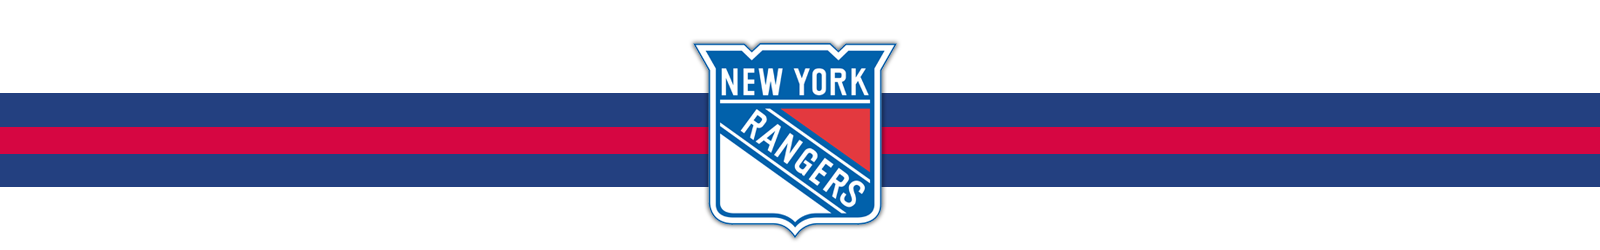
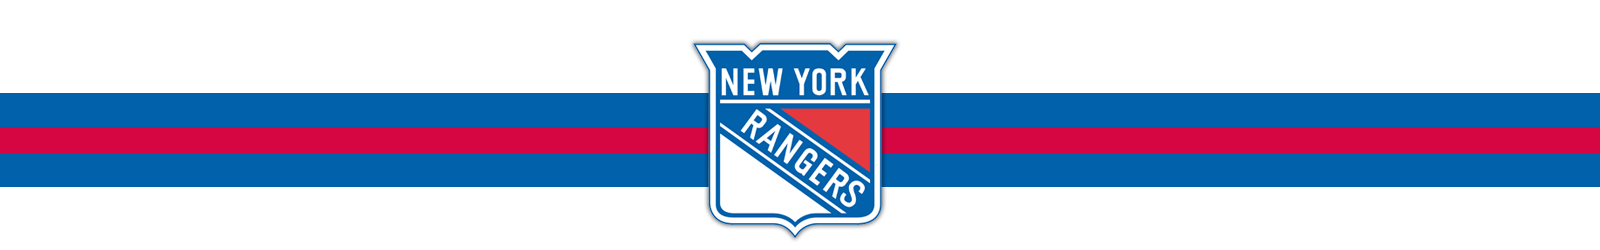
Updated rangers blue globally, updates to  home theme.

diff --git a/current-theme.css b/current-theme.css
@@ -7,7 +7,7 @@
  */
 /*
 // ==========================================================================
-// Current /r/rangers theme: third
+// Current /r/rangers theme: away
 // ==========================================================================
 */
 /*
@@ -3095,7 +3095,7 @@ input[type="submit"] {
   width: 100%; }
 
 #sr-header-area {
-  background-color: #1B213F; }
+  background-color: #0161ab; }
 
 div.RES-keyNav-activeElement, div.commentarea div.RES-keyNav-activeElement.entry div.noncollapsed {
   border-color: #D60642; }
@@ -3117,7 +3117,7 @@ div.RES-keyNav-activeElement, div.commentarea div.RES-keyNav-activeElement.entry
   width: 100%;
   z-index: 7;
   height: 50px;
-  background: rgba(27, 33, 63, 0.93);
+  background: rgba(255, 255, 255, 0.93);
   margin: 0 !important;
   box-shadow: 1px 1px 1px rgba(0, 0, 0, 0.68);
   text-decoration: none;
@@ -3127,7 +3127,7 @@ div.RES-keyNav-activeElement, div.commentarea div.RES-keyNav-activeElement.entry
   -moz-transition: all 0.75s ease;
   transition: all 0.75s ease; }
   .side h6:hover {
-    background: #1B213F; }
+    background: #fff; }
   .side h6 a {
     opacity: 0.65;
     -webkit-transition: all 0.7s ease;
@@ -3201,7 +3201,7 @@ div.RES-keyNav-activeElement, div.commentarea div.RES-keyNav-activeElement.entry
       opacity: 1; }
 
 body {
-  background-color: #1B213F;
+  background-color: #fff;
   /*   &:after {
     background-image: url($current-header-img);
     height: $header-height;
@@ -3210,7 +3210,7 @@ body {
     z-index: 8;
   } */ }
   body:before {
-    background-image: url("%%rangersbanner-third%%");
+    background-image: url("%%rangersbanner-away%%");
     height: 250px;
     background-size: cover;
     background-position: center center;
@@ -3221,7 +3221,7 @@ body > .content {
   z-index: 5; }
 
 #header .pagename a {
-  color: #fff;
+  color: #0161ab;
   font-size: 22px;
   text-shadow: 0 1px 3px rgba(0, 0, 0, 0.25); }
   #header .pagename a:before {
@@ -3229,7 +3229,7 @@ body > .content {
     font-size: 22px;
     letter-spacing: 1px; }
   #header .pagename a:hover {
-    color: #dbd5b8; }
+    color: #D60642; }
 
 #mail {
   top: 2px; }
@@ -3240,12 +3240,12 @@ body > .content {
   z-index: 99; }
 
 #header .tabmenu li.selected a {
-  color: #822; }
+  color: #D60642; }
 #header .tabmenu li a {
   text-shadow: 0 1px 2px rgba(0, 0, 0, 0.25);
-  color: #fff; }
+  color: #0161ab; }
   #header .tabmenu li a:hover {
-    color: #dbd5b8; }
+    color: #0161ab; }
 
 #header-bottom-left {
   top: 248px; }
@@ -3253,16 +3253,16 @@ body > .content {
 #header-img.default-header, #header-img {
   z-index: 99;
   width: 40px;
-  background-size: initial;
-  padding-left: 48px;
+  background-size: cover;
+  padding-left: 68px;
   height: 48px;
-  background-image: url("%%spritesheet%%");
-  background-position: -208px -48px;
+  background-image: url("%%footerbg%%");
+  background-position: 0 0;
   position: relative;
   top: 0;
   margin: 0; }
   #header-img.default-header:hover, #header-img:hover {
-    background-position: -208px -96px; }
+    background-position: 0 0; }
 
 .linkflair .linkflairlabel {
   padding: 2px;
@@ -3891,7 +3891,7 @@ div.titlebox span.number:after {
 .top-bar {
   position: fixed;
   width: 100%;
-  background: #1B447F;
+  background: #0161ab;
   height: 50px; }
 
 .side {
@@ -3938,19 +3938,19 @@ div.titlebox span.number:after {
 .morelink {
   top: 350px;
   color: #fff;
-  background-color: #822;
+  background-color: #D60642;
   text-transform: uppercase;
   -webkit-transition: all 0.3s ease;
   -moz-transition: all 0.3s ease;
   transition: all 0.3s ease; }
   .morelink:hover {
     height: 45px;
-    background-color: #1B447F;
+    background-color: #0161ab;
     border-top: 5px solid #D60642;
     border-bottom: 5px solid #D60642;
     margin-top: -5px; }
   .morelink a {
-    letter-spacing: 5px;
+    letter-spacing: 3px;
     color: #fff; }
 
 .disabled .morelink:after {
@@ -4038,13 +4038,14 @@ html:not([lang="ns"]) .footer-parent {
   clear: both;
   float: left;
   width: 100%;
-  border-bottom: 40px solid #822;
+  border-bottom: 40px solid #D60642;
   position: relative;
   padding-bottom: 100px; }
   html:not([lang="ns"]) .footer-parent:after {
-    content: "current r/rangers theme: third";
-    font-size: 10px;
-    color: #1B447F;
+    content: "current r/rangers theme: away";
+    font-size: 11px;
+    font-weight: 700;
+    color: #0161ab;
     position: absolute;
     z-index: -1;
     height: 730px;
@@ -4052,8 +4053,8 @@ html:not([lang="ns"]) .footer-parent {
     left: 0;
     right: 0;
     bottom: 0;
-    border-bottom: 50px solid #dbd5b8;
-    box-shadow: 20px 160px 0px 20px #dbd5b8; }
+    border-bottom: 50px solid #0161ab;
+    box-shadow: 20px 160px 0px 20px #0161ab; }
 
 .footer .flat-vert.title {
   color: #000; }
@@ -4103,7 +4104,7 @@ body > .content {
   padding: 9px 20px; }
 
 .btn, button.btn, button {
-  background-color: #822;
+  background-color: #D60642;
   color: #000;
   text-decoration: none;
   border-radius: 0px;
@@ -4111,7 +4112,7 @@ body > .content {
   text-align: center;
   cursor: pointer; }
   .btn:hover, button.btn:hover, button:hover {
-    background-color: #1B213F; }
+    background-color: #0161ab; }
   .btn.complete, button.btn.complete, button.complete {
     cursor: default;
     background: #a6a6a7;

diff --git a/src/themes/third/_colors.scss b/src/themes/third/_colors.scss
@@ -77,14 +77,14 @@
   $anchor-hover: $var-black;
 
   //-footer
-  $footer-link-titles: $var-black;
-  $footer-link-color: $var-black;
+  $footer-link-titles: $rangers-third-white;
+  $footer-link-color: $rangers-third-white;
 
   $footer-stripe1: $rangers-third-white;
   $footer-stripe2: $rangers-third-red;
   $footer-stripe3: $rangers-third-white;
 
-  $theme-name-color: $rangers-blue;
+  $theme-name-color: $rangers-third-white;
 
   //-buttons
   $btn-text-color: $var-black;

diff --git a/src/app.scss b/src/app.scss
@@ -33,13 +33,6 @@
 @import "themes/third/dimensions";
 @import "themes/third/settings";
 
-//-2016 playoff theme
-@import "themes/playoffs/colors";
-@import "themes/playoffs/fonts";
-@import "themes/playoffs/images";
-@import "themes/playoffs/dimensions";
-@import "themes/playoffs/settings";
-
 //-mg-core
 @import "mg-core/base/helpers";
 @import "mg-core/base/mixins";

diff --git a/src/reddit-modules/_footer.scss b/src/reddit-modules/_footer.scss
@@ -18,7 +18,8 @@ html:not([lang="ns"]) .footer-parent {
   padding-bottom: 100px;
   &:after {
     content: $current-theme-copy;
-    font-size:10px;
+    font-size:11px;
+    font-weight:700;
     color:$theme-name-color;
     position: absolute;
     z-index: -1;

diff --git a/src/global/_options.scss b/src/global/_options.scss
@@ -9,7 +9,7 @@
 // ==========================================================================
  */
 
-$current-theme : 'third';
+$current-theme : 'away';
 // available themes: home, away, third, allstar, playoffs
 
 /*

diff --git a/src/global/_var.scss b/src/global/_var.scss
@@ -4,7 +4,7 @@
 
 //-ranger colors
 $rangers-red: #D60642;
-$rangers-blue: #1B447F;
+$rangers-blue: #0161ab;
 $rangers-third-white: #dbd5b8;
 $rangers-third-red: #822;
 $rangers-third-blue: #1B213F;

diff --git a/src/themes/home/_colors.scss b/src/themes/home/_colors.scss
@@ -13,7 +13,7 @@
 
   //-topbar
   $topbar-hover: $rangers-blue;
-  $topbar-bg: rgba(27, 68, 127, 0.93);
+  $topbar-bg: rgba(1, 97, 171, 0.93);
 
   //-res-header
   $res-header-bg: $rangers-blue;

diff --git a/src/reddit-modules/_sidebar.scss b/src/reddit-modules/_sidebar.scss
@@ -91,7 +91,7 @@ div.titlebox span.number:after {
     margin-top:-5px;
   }
   a {
-    letter-spacing:5px;
+    letter-spacing:3px;
     color:$submit-txt-color;
   }
 }
